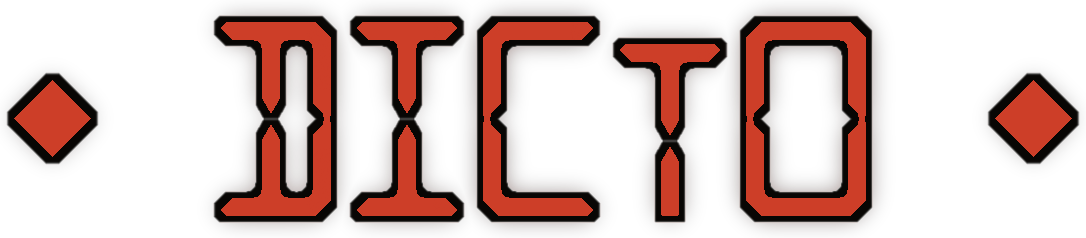
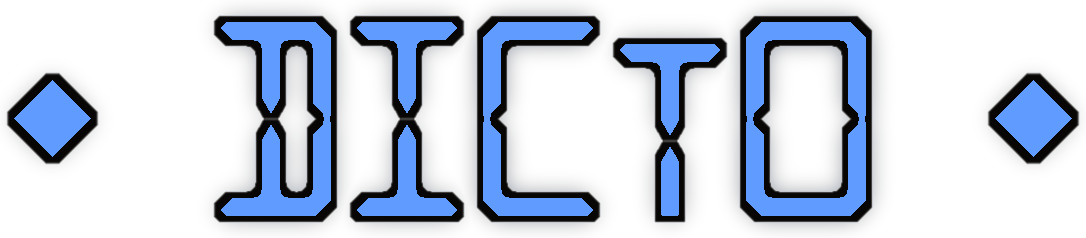
DICTONIC Bonds cover: DICTO mark in blue on front and back (DICTO: 'dicto name in blue please')

diff --git a/studies/2026-11-03-bonds-cover/scripts/cover_title.py b/studies/2026-11-03-bonds-cover/scripts/cover_title.py
@@ -6,7 +6,7 @@
 import os, numpy as np
 from scipy import ndimage
 from PIL import Image, ImageDraw, ImageFont
-GROUND = (20, 15, 11); GOLD = (217, 165, 33); VIOLET = (180, 138, 224); WHITE = (255, 255, 255); RED = (205, 62, 40); TEAL = (72, 206, 188)
+GROUND = (20, 15, 11); GOLD = (217, 165, 33); VIOLET = (180, 138, 224); WHITE = (255, 255, 255); RED = (205, 62, 40); TEAL = (72, 206, 188); BLUE = (96, 156, 255)   # BLUE: the square's brightened blue letters
 sq = Image.open(os.environ.get('SQUARE', '../bonds-square.png')).convert('RGB'); N = sq.width
 def glyph(ch, size, col):
     """One closed LED letter: (rgb, alpha) cropped to its ink, plus padding for glow."""
@@ -53,12 +53,12 @@ def fit(text, size, col, big):
     print(text, 'size', round(size / N, 4)); return w
 big = fit('DICTONIC BONDS', int(N * 0.075), GOLD, tuple(range(14)))   # DICTO 11-03: full capitals, every letter at the large capital size   # lines gold, teal, red (as Star Cores; DICTO red, as the other books)
 sub = fit('FROM THE OCTET TO THE RULE OF HALVES', int(N * 0.040), TEAL, (0, 9, 22, 30))   # initials of From, Octet, Rule, Halves
-by = word('* DICTO *', int(N * 0.042), lambda ch: RED, big=(0, 2, 3, 4, 5, 6, 8))   # every letter of DICTO is an initial (DICTO)
+by = word('* DICTO *', int(N * 0.042), lambda ch: BLUE, big=(0, 2, 3, 4, 5, 6, 8))   # DICTO 11-03: 'dicto name in blue please' (was red); every letter of DICTO is an initial (DICTO)
 H = big[1].shape[0] + sub[1].shape[0] + by[1].shape[0] + int(N * 0.16)
 panel = np.ones((H, N, 3)) * np.array(GROUND, float)
 y = paste(panel, big, N / 2, int(N * 0.02)); y = paste(panel, sub, N / 2, y + int(N * 0.05)); paste(panel, by, N / 2, y + int(N * 0.035))
 out = Image.new('RGB', (N, N + H), GROUND); out.paste(sq, (0, 0)); out.paste(Image.fromarray(np.clip(panel, 0, 255).astype(np.uint8)), (0, N))
 out.save(os.environ.get('OUT', '../bonds-cover-front.png')); print('ok', out.size)
 # the ◆ DICTO ◆ mark alone (transparent), for the back of the KDP cover (DICTO 10-29)
-mk = word('* DICTO *', int(N * 0.06), lambda ch: RED, big=(0, 2, 3, 4, 5, 6, 8))   # red on the back too
+mk = word('* DICTO *', int(N * 0.06), lambda ch: BLUE, big=(0, 2, 3, 4, 5, 6, 8))   # blue on the back too (DICTO 11-03)
 Image.fromarray(np.dstack([np.clip(mk[0], 0, 255), mk[1] * 255]).astype(np.uint8), 'RGBA').save('../dicto-mark.png')

diff --git a/studies/2026-11-03-bonds-cover/README.md b/studies/2026-11-03-bonds-cover/README.md
@@ -8,6 +8,6 @@ Request (2026-11-03): the cover for DICTO's book "DICTONIC Bonds: from the Octet
 - Pieces in the book's order (preface), exact corners and faces from the DICTO Solids dataset v7: D Icosaxes, I Unborn Axes (Golden bond, gold); C Lotus Jewel Axes, T Dodecaxes (Keyed bond, violet); O Samson, N Delilah (Delian bond, teal); I Sonsam, C Lahdeli (Twinned Delian bond, blue). Face counts checked (14, 14, 54, 54, 10, 8, 13, 8); winding checked; one circumradius, the squares' one pose.
 - Two pieces are not convex (dents, keys), so the pieces are drawn with a depth buffer; edges are the borders between visible face planes (~2 px at 2400 px).
 - Letters: the HexOct LED letters (DSEG14 Classic, OFL) in reciprocal colours (DICTO 11-03): each bond takes its partner bond's piece colour, brightened as the Star Cores letters: violet on gold, gold on violet, blue on teal, teal on blue. No red or orange in the square. Black rim round each letter 1.5x the Star Cores width (14 px instead of 9 at the 4800 px working size; DICTO 11-03).
-- Title panel as Star Cores: DICTONIC BONDS (gold, full capitals: every letter at the large size, DICTO 11-03; back title also capitals), FROM THE OCTET TO THE RULE OF HALVES (teal, shrunk to fit: 0.0325 N against 0.040), ◆ DICTO ◆ (red). No series line (not part of a series).
+- Title panel as Star Cores: DICTONIC BONDS (gold, full capitals: every letter at the large size, DICTO 11-03; back title also capitals), FROM THE OCTET TO THE RULE OF HALVES (teal, shrunk to fit: 0.0325 N against 0.040), ◆ DICTO ◆ (blue 96, 156, 255, the square's brightened blue; DICTO 11-03, was red; also on the back). No series line (not part of a series).
 - KDP wrap: A4 trim, bleed 0.125 in, 300 dpi; spine = 105 x 0.002252 in = 0.2365 in (white paper, as the other books; check KDP's calculator before upload); spine text (105 > 79 pages). Back: blurb from the preface, author note, ◆ DICTO ◆ mark, logo, DOI line "(to come)", barcode area 2 x 1.2 in kept clear.
 - scripts/bonds_square.py <dataset solids dir>, scripts/cover_title.py, scripts/kdp_cover.py (PAGES=, GUIDES=1); run on dicto-big-brother in ~/kres-tmp/bonds-cover/scripts.
